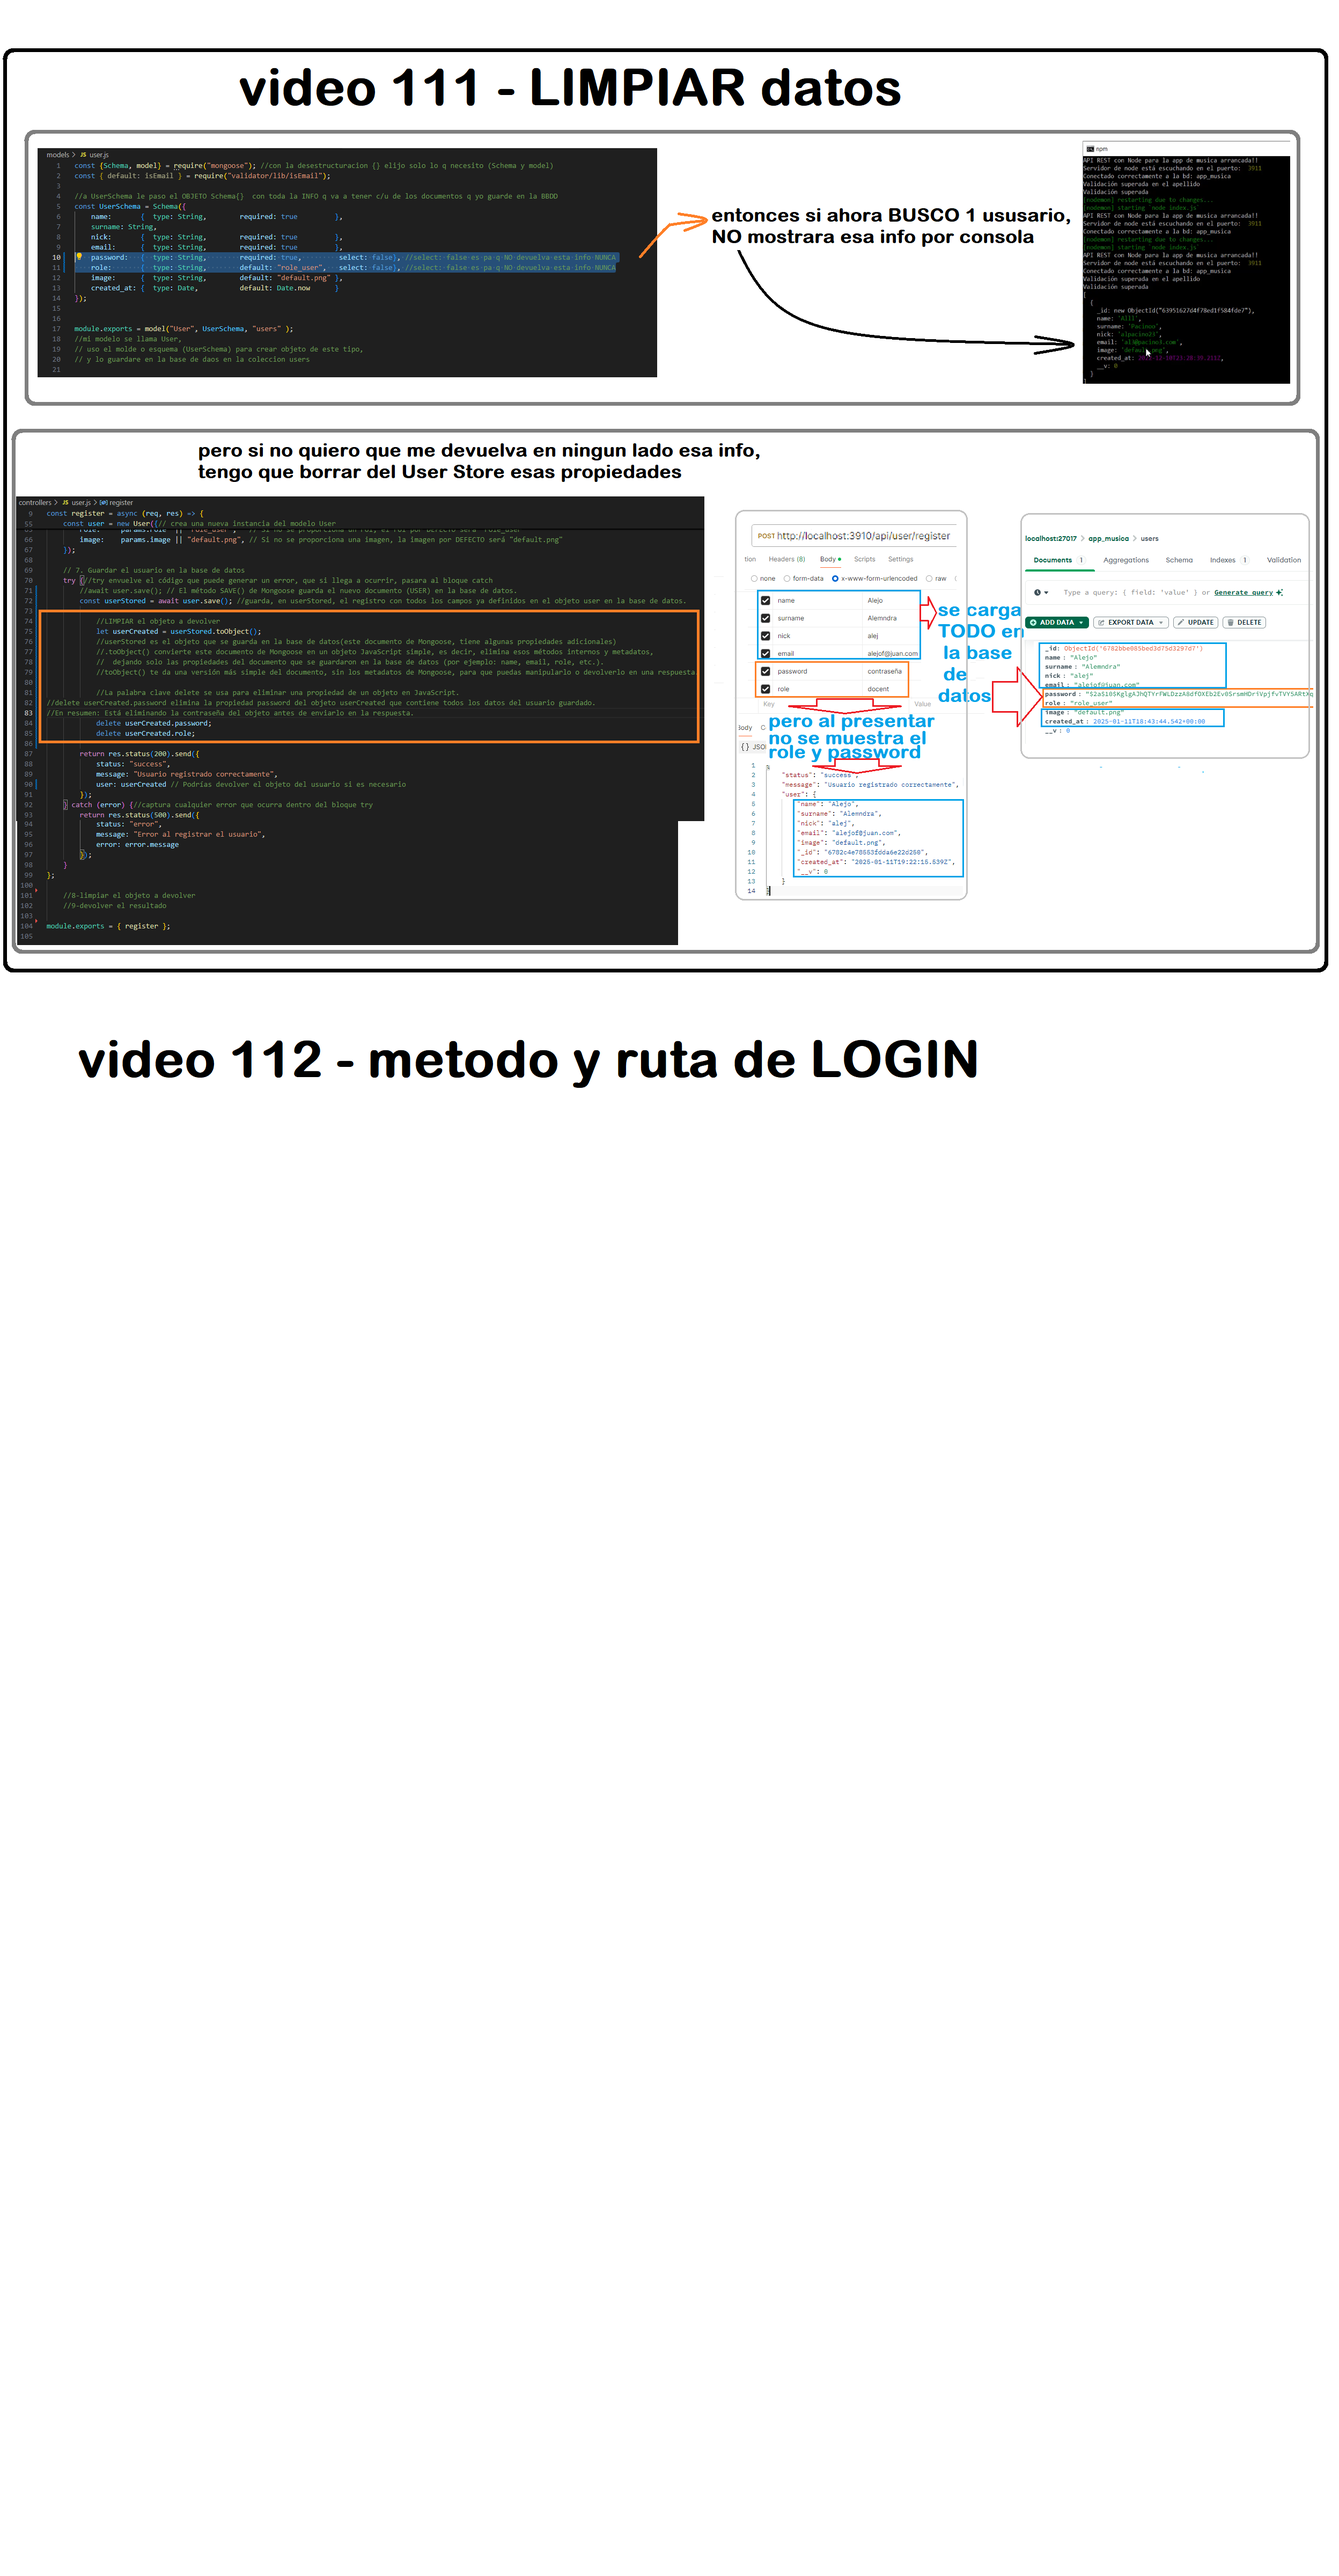
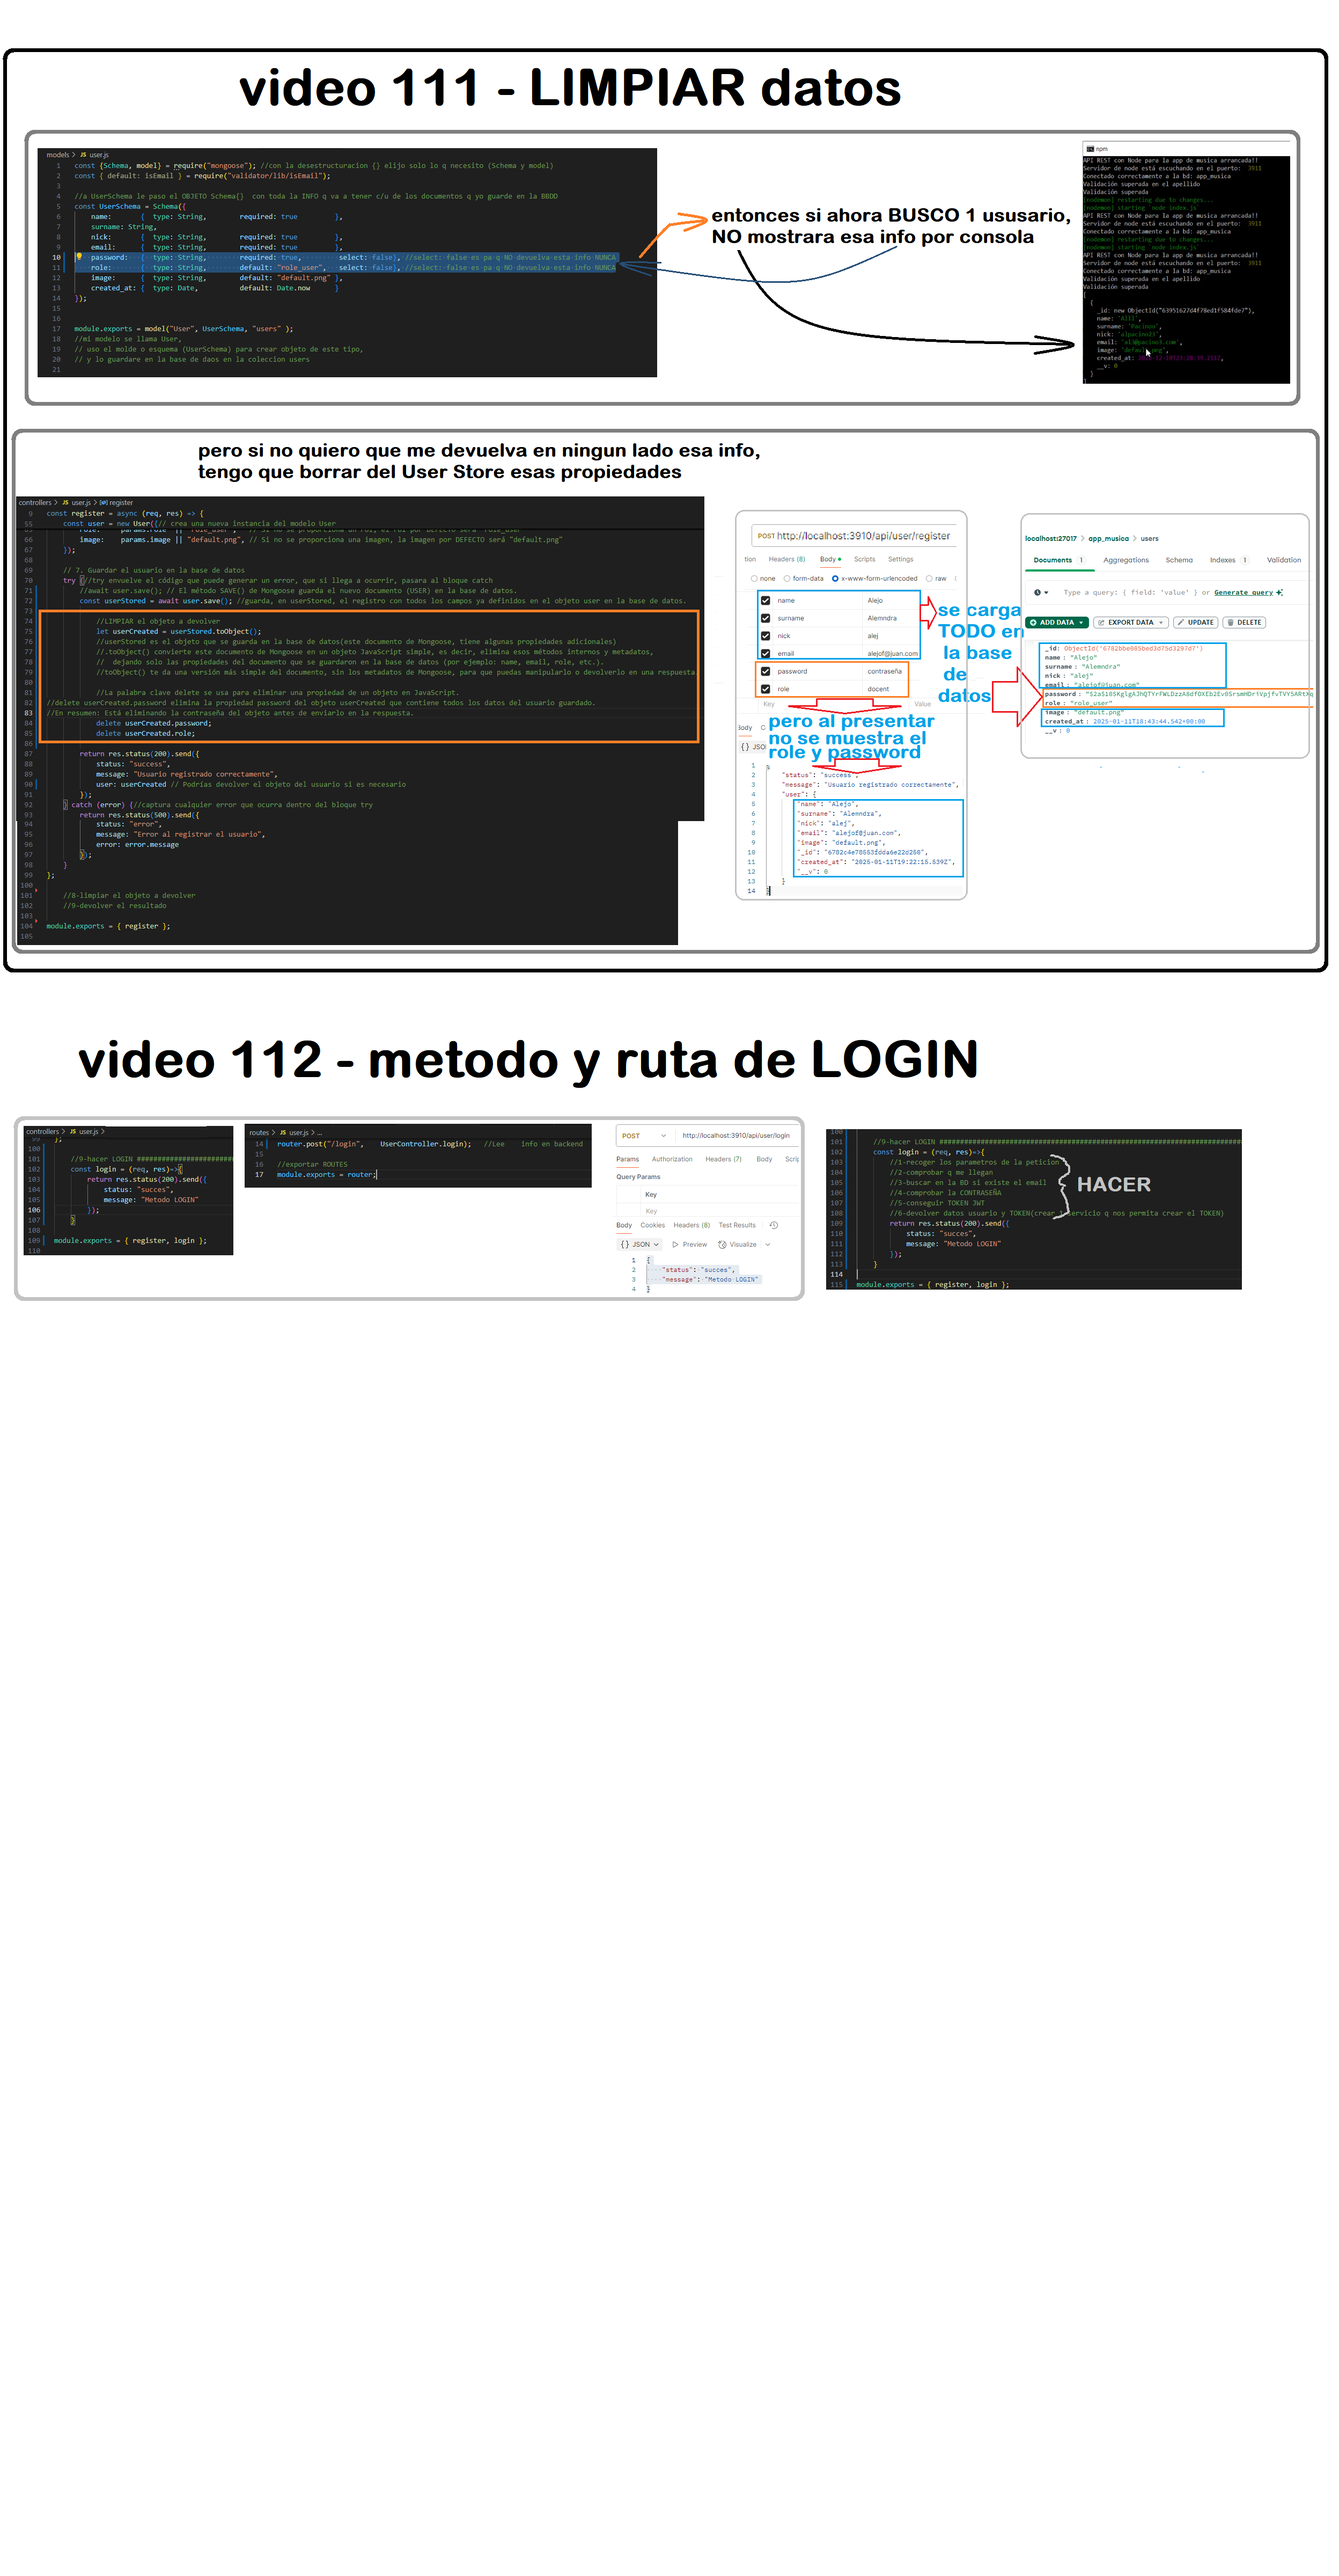
10° V.112 metodo y tura de login

Changed region(s): [[0.5938, 0.4375, 0.9375, 0.5], [0.0, 0.4375, 0.4688, 0.5], [0.4688, 0.4688, 0.5625, 0.5]]

diff --git a/controllers/user.js b/controllers/user.js
@@ -4,13 +4,13 @@ const bcrypt = require("bcryptjs"); // librería para encriptar contraseñas,
 const User = require("../models/user"); // modelo de datos para interactuar con la base de datos
 
 
-//REGISTRAR un usuario 
+//1-REGISTRAR un usuario  ######################################################################################################
 //register realiza una petición HTTP para registrar un nuevo usuario. Recibe como parámetros req (la solicitud) y res (la respuesta).
 const register = async (req, res) => {
     //1-recoger los datos de la peticion
     let params = req.body;//asi recojo todo lo que me llega por el body
     
-    //2-comprobar q me llegan bien
+    //2-comprobar q me llegan bien ######################################################################################################
 if(!params.name || !params.nick || !params.email || !params.password) {//si no exitiera nombre o nick o email o password, devolver un estatus 400
     return res.status(400).send({
         status: "error",
@@ -18,7 +18,7 @@ if(!params.name || !params.nick || !params.email || !params.password) {//si no e
     });
 }
 
-    //3-validar los datos
+    //3-validar los datos ######################################################################################################
    try{
     validate(params);//params contiene datos del usuario enviados en la solicitud HTTP. 
    }catch(error){
@@ -28,7 +28,7 @@ if(!params.name || !params.nick || !params.email || !params.password) {//si no e
     });
    }
 
-        //4-controlar usuarios duplicados
+        //4-controlar usuarios duplicados ######################################################################################################
         //await espera a q se realice la consulta a la base de datos. 
         //User es el modelo de usuario
         //findOne es un método de Mongoose que busca UN solo documento en la base de datos que cumpla con los criterios
@@ -44,14 +44,14 @@ if(!params.name || !params.nick || !params.email || !params.password) {//si no e
         });
     }
 
-    // 5. Cifrar la contraseña
+    // 5. Cifrar la contraseña ######################################################################################################
     //bcrypt.hash devuelve una promesa, y await hace que JavaScript espere a que la contraseña se haya CIFRADO antes de asignar el resultado a hashedPassword.
     const hashedPassword = await bcrypt.hash(params.password, 10); // Usa libreria bcryptjs para cifrar la contraseña
    //hash: El método hash de bcrypt toma dos parámetros
           //params.password: contiene la contraseña del usuario que se ha recibido en la solicitud 
           //10 Es el número de veces que se aplica un proceso de hashing a la contraseña.
 
-    // 6. Crear el objeto del usuario
+    // 6. Crear el objeto del usuario ######################################################################################################
     const user = new User({// crea una nueva instancia del modelo User
          //El objeto user será un documento de base de datos que se guardará más tarde usando el método save() 
 
@@ -66,12 +66,12 @@ if(!params.name || !params.nick || !params.email || !params.password) {//si no e
         image:    params.image || "default.png", // Si no se proporciona una imagen, la imagen por DEFECTO será "default.png"
     });
 
-    // 7. Guardar el usuario en la base de datos
+    // 7. Guardar el usuario en la base de datos ######################################################################################################
     try {//try envuelve el código que puede generar un error, que si llega a ocurrir, pasara al bloque catch
         //await user.save(); // El método SAVE() de Mongoose guarda el nuevo documento (USER) en la base de datos.
         const userStored = await user.save(); //guarda, en userStored, el registro con todos los campos ya definidos en el objeto user en la base de datos.
 
-            //LIMPIAR el objeto a devolver
+            //8-LIMPIAR el objeto a devolver ######################################################################################################
             let userCreated = userStored.toObject();
             //userStored es el objeto que se guarda en la base de datos(este documento de Mongoose, tiene algunas propiedades adicionales)
             //.toObject() convierte este documento de Mongoose en un objeto JavaScript simple, es decir, elimina esos métodos internos y metadatos,
@@ -97,8 +97,19 @@ if(!params.name || !params.nick || !params.email || !params.password) {//si no e
         });
     }
 };
+   
+    //9-hacer LOGIN #################################################################################################################################
+    const login = (req, res)=>{
+        //1-recoger los parametros de la peticion
+        //2-comprobar q me llegan
+        //3-buscar en la BD si existe el email
+        //4-comprobar la CONTRASEÑA
+        //5-conseguir TOKEN JWT
+        //6-devolver datos usuario y TOKEN(crear 1 servicio q nos permita crear el TOKEN)
+        return res.status(200).send({
+            status: "succes",
+            message: "Metodo LOGIN"
+        });
+    }
 
-    //8-limpiar el objeto a devolver
-    //9-devolver el resultado
-
-module.exports = { register };
+module.exports = { register, login };

diff --git a/routes/user.js b/routes/user.js
@@ -10,8 +10,8 @@ const UserController = require("../controllers/user");//y ya tengo acceso a todo
 const { register } = require("../controllers/user");
 
 //definir RUTAS
-router.post("/register", UserController.register)//guarda info en backend
-
+router.post("/register", UserController.register);//guarda info en backend
+router.post("/login",    UserController.login);   //Lee    info en backend
 
 //exportar ROUTES
 module.exports = router;
